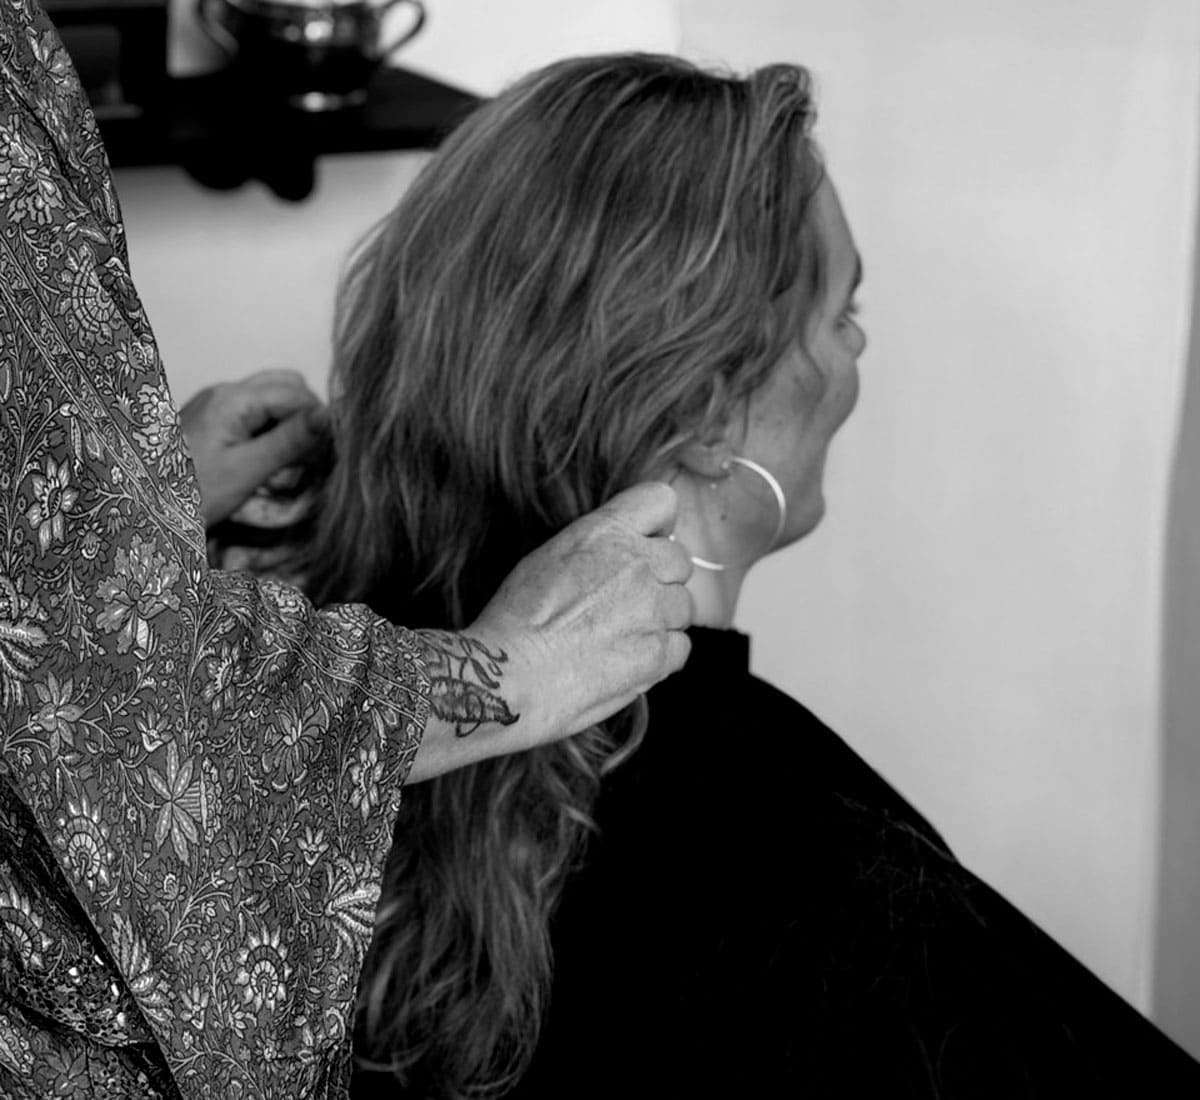
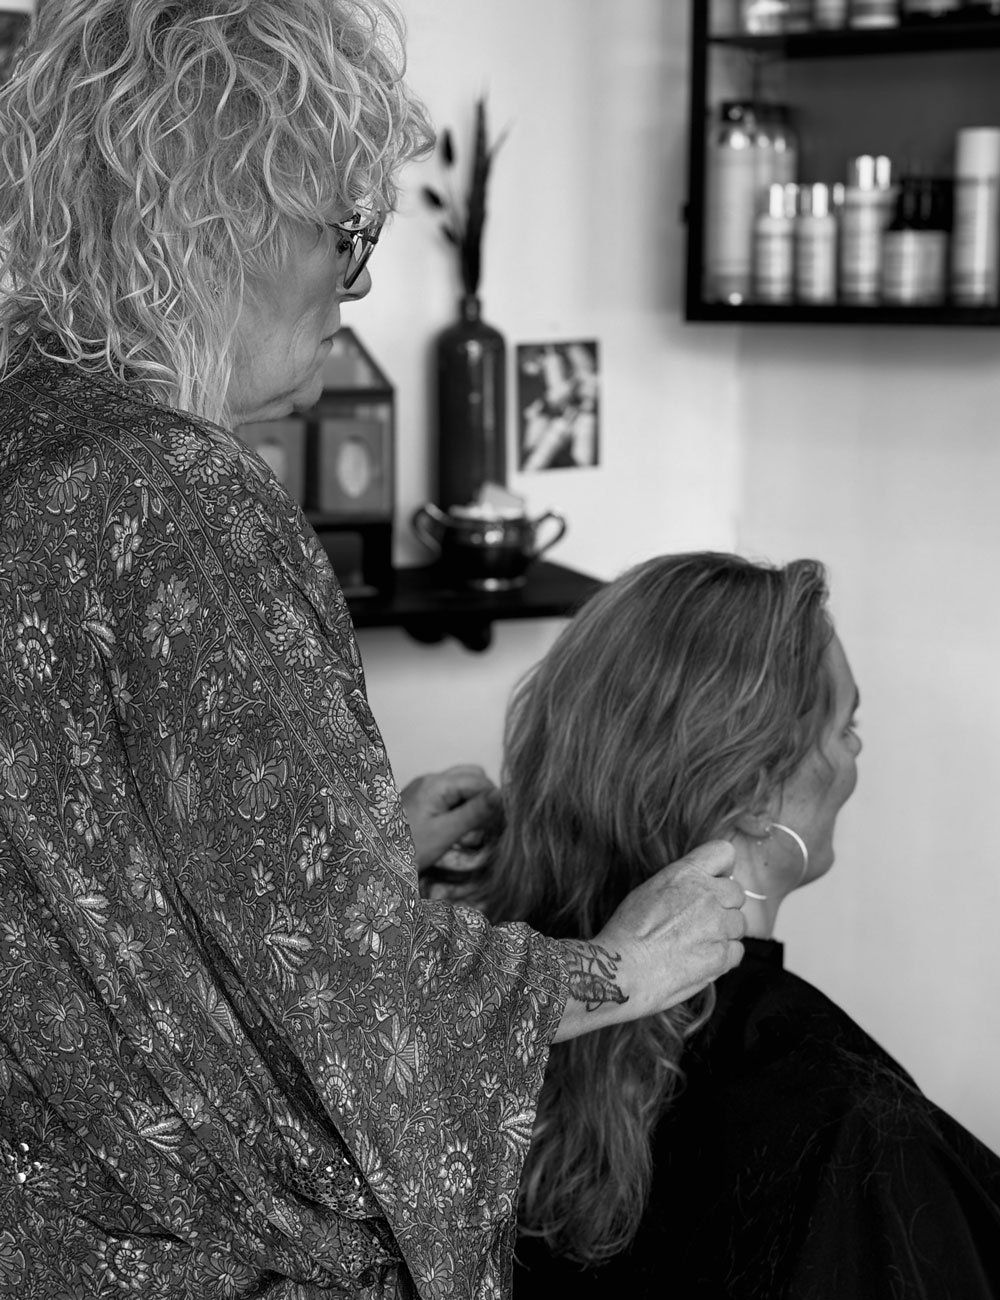
Opdatering

diff --git a/styles/guides.css b/styles/guides.css
@@ -419,7 +419,7 @@
 }
 
 /* Knapper og links man skal klikke på. */
-.guide-cta-copy .button,.guide-styling-copy h4 {
+.guide-cta-copy .button,.guide-editorial-copy .button,.guide-styling-copy h4 {
   margin-top:28px
 }
 
@@ -691,12 +691,15 @@
     grid-template-columns:minmax(0,1fr) minmax(0,1fr)
   }
   .guide-hero {
-    grid-template-columns:minmax(0,0.72fr) minmax(0,1.28fr);
-    padding-top:58px;
-    padding-bottom:24px
+    grid-template-columns:1fr 1.15fr;
+    padding-top:80px;
+    padding-bottom:80px
   }
   .guide-cta,.guide-editorial {
     grid-template-columns:minmax(0,1.28fr) minmax(0,0.72fr)
+  }
+  .guide-editorial {
+    grid-template-columns:minmax(0,1fr) minmax(0,1fr)
   }
   .guide-cta {
     align-items:stretch
@@ -739,7 +742,7 @@
   }
   .guide-hero {
     grid-template-columns:minmax(0,1.2fr) minmax(0,0.8fr);
-    padding:54px var(--page-gutter) 82px
+    padding:54px var(--page-gutter) 0
   }
   .guide-cta {
     grid-template-columns:minmax(0,1.15fr) minmax(0,0.85fr);
@@ -849,7 +852,7 @@
     grid-template-columns:minmax(0,1.15fr) minmax(0,0.85fr);
     gap:56px;
     padding-top:58px;
-    padding-bottom:24px
+    padding-bottom:0
   }
   .guide-hero-media {
     aspect-ratio:4/5
@@ -857,10 +860,17 @@
 }
 
 /* Regler for andre skærmstørrelser. */
+@media (min-width:831px) and (max-width:859px) {
+  .guide-hero {
+    grid-template-columns:minmax(0,1fr) minmax(0,1fr)
+  }
+}
+
+/* Regler for andre skærmstørrelser. */
 @media (min-width:860px) and (max-width:1199px) {
   .guide-hero {
     grid-template-columns:minmax(0,0.9fr) minmax(0,1.1fr);
-    align-items:stretch
+    align-items:start
   }
   .guide-hero-media {
     aspect-ratio:1.8/1
@@ -1078,6 +1088,104 @@
   .guide-styling-placeholder picture img {
     height:auto;
     object-fit:contain
+  }
+}
+
+.guide-hero-media {
+  min-height:0;
+  max-height:none;
+  aspect-ratio:16 / 9;
+  overflow:hidden;
+  background:transparent
+}
+
+.guide-hero-media img {
+  display:block;
+  width:100%;
+  height:100%;
+  object-fit:cover;
+  object-position:center
+}
+
+@media (min-width:768px) and (max-width:830px) {
+  .guide-hero-media,.guide-editorial-image {
+    aspect-ratio:auto;
+    background:transparent
+  }
+  .guide-hero-media picture,.guide-hero-media img,.guide-editorial-image picture,.guide-editorial-image img {
+    display:block;
+    width:100%;
+    height:auto;
+    object-fit:initial
+  }
+}
+
+@media (max-width:830px) and (min-width:768px) {
+  .guide-hero-media,.guide-editorial-image {
+    height:clamp(360px, 34vw, 440px);
+    overflow:hidden
+  }
+  .guide-hero-media img,.guide-editorial-image img {
+    display:block;
+    width:100%;
+    height:100%;
+    object-fit:cover;
+    object-position:center
+  }
+}
+
+@media (min-width:831px) {
+  .guide-hero {
+    align-items:stretch
+  }
+  .guide-hero-media {
+    min-height:0;
+    height:auto;
+    overflow:hidden
+  }
+  .guide-hero-media img {
+    display:block;
+    width:100%;
+    height:100%;
+    object-fit:cover;
+    object-position:center
+  }
+  .guide-editorial,.guide-cta {
+    align-items:stretch
+  }
+  .guide-editorial {
+    grid-template-columns:minmax(0,1fr) minmax(0,1fr)
+  }
+  .guide-editorial-copy {
+    max-width:620px
+  }
+  .guide-editorial-image,.guide-cta-image {
+    position:relative;
+    align-self:stretch;
+    min-height:0;
+    max-height:none;
+    height:100%;
+    aspect-ratio:auto;
+    overflow:hidden;
+    background:transparent
+  }
+  .guide-editorial-image {
+    height:clamp(340px, 24vw, 460px);
+    overflow:hidden
+  }
+  .guide-editorial-image picture,.guide-editorial-image img,.guide-cta-image picture,.guide-cta-image img {
+    display:block;
+    width:100%;
+    height:100%
+  }
+  .guide-editorial-image picture {
+    position:absolute;
+    inset:0
+  }
+  .guide-editorial-image img,.guide-cta-image img {
+    height:100%;
+    object-fit:cover;
+    object-position:center
   }
 }
 

diff --git a/guides.html b/guides.html
@@ -248,14 +248,14 @@
     <!-- Sektion .guide-hero: samlet indholdsblok paa siden. -->
     <section class="guide-hero" aria-labelledby="guide-hero-title">
       <div class="guide-hero-content">
-        <p class="eyebrow">Krølleunivers</p>
-        <h1 id="guide-hero-title">Giv dine krøller det, de mangler - ikke mere end det.</h1>
-        <p class="guide-hero-lead">Fine krøller og bølger ændrer sig hele tiden.<span class="guide-hero-desktop-break"></span> Nogle dage har de brug for lethed. Andre dage for mere næring. Mixly Low &amp; Rich gør det enkelt at justere din pleje efter, hvordan dit hår føles lige nu.</p>
-        <a class="button guide-button" href="produkter.html">Udforsk Mixly</a>
+        <p class="eyebrow">Sådan fungerer Mixly</p>
+        <h1 id="guide-hero-title">To produkter, der er skabt til at blive blande</h1>
+        <p class="guide-hero-lead">Mixly består af LOW og RICH. Hver for sig kan de noget forskelligt, men det er i kombinationen, de giver mening.</p> <p>Ved at blande dem sammen kan du tilpasse din rutine til dit hårs behov og skabe den balance mellem fugt, pleje og lethed, som fungerer for dig. Det gør det nemmere at forstå dit hår og lettere at justere, når det ændrer sig.</p>
+        <a class="button guide-button" href="produkter.html">Udforsk produkter</a>
       </div>
       <div class="guide-hero-media" aria-hidden="true">
         <picture>
-          <source media="(min-width: 768px) and (max-width: 859px)" srcset="img/guide-hero-tablet.jpg">
+          <source media="(min-width: 768px) and (max-width: 830px)" srcset="img/guide-hero-tablet.jpg">
           <img src="img/guide-hero.jpg" alt="">
         </picture>
         <span class="image-placeholder-label">IMG</span>
@@ -359,17 +359,16 @@
     <section class="guide-editorial guide-section" aria-labelledby="guide-feel-title">
       <div class="guide-editorial-image guide-placeholder" aria-hidden="true">
         <picture>
-          <source media="(min-width: 768px) and (max-width: 909px)" srcset="img/guide-sektion-hvordan-tablet.jpg">
+          <source media="(min-width: 768px) and (max-width: 830px)" srcset="img/guide-sektion-hvordan-tablet.jpg">
           <img src="img/guide-sektion-hvordan.jpg" alt="" loading="lazy" decoding="async">
         </picture>
         <span class="image-placeholder-label">IMG</span>
       </div>
       <div class="guide-editorial-copy">
-        <p class="eyebrow">LOW &amp; RICH BALANCE</p>
-        <h2 id="guide-feel-title">Hvordan føles dit hår i dag?</h2>
-        <p>Mixly er udviklet med fokus på fint hår med krøller eller bølger. Visionen har hele tiden været at skabe hårprodukter, der kan tilpasses dig og dit hår - ikke omvendt.</p>
-        <p>Det handler om at lære dit hår at kende og justere plejen efter, hvordan det føles lige nu.</p>
-        <p>Start med følelsen. Så bliver det meget lettere at forstå, hvad dit hår har brug for.</p>
+        <p class="eyebrow">KRØLLEVIDEN</p>
+        <h2 id="guide-feel-title">Lær dit hår bedre at kende</h2>
+        <p>Krøller og bølger har ikke de samme behov hver dag. Når du lærer at genkende, hvordan dit hår føles og reagerer, bliver det lettere at forstå, hvad det har brug for.</p><p>I vores guide deler vi konkrete råd til, hvordan du fremhæver dine naturlige krøller og skaber en rutine, der passer til dit hår.</p>
+        <a class="button button-secondary" href="http://127.0.0.1:5500/blog/sadan-far-du-dine-naturlige-kroller-frem.html">Læs guiden</a>
       </div>
     </section>
 
@@ -464,15 +463,6 @@
       </div>
     </section>
 
-    <!-- Sektion .guide-quote-section: samlet indholdsblok paa siden. -->
-    <section class="guide-quote-section" aria-label="Citat fra Belinda Hildebrandt">
-      <blockquote class="guide-quote">
-        <p>"Jeg hjælper dig med at forstå dit hår, så du kan skabe en rutine, der virker for dig."</p>
-        <!-- Footer: nederste omraade med links, kontakt og ekstra information. -->
-        <footer>Belinda Hildebrandt</footer>
-      </blockquote>
-    </section>
-
     <!-- Sektion .guide-cta: samlet indholdsblok paa siden. -->
     <section class="guide-cta guide-section" aria-labelledby="guide-cta-title">
       <div class="guide-cta-image guide-placeholder" aria-hidden="true">
@@ -491,6 +481,15 @@
           <a class="button button-secondary" href="kontakt.html">Kontakt mig</a>
         </div>
       </div>
+    </section>
+
+    <!-- Sektion .guide-quote-section: samlet indholdsblok paa siden. -->
+    <section class="guide-quote-section" aria-label="Citat fra Belinda Hildebrandt">
+      <blockquote class="guide-quote">
+        <p>"Jeg hjælper dig med at forstå dit hår, så du kan skabe en rutine, der virker for dig."</p>
+        <!-- Footer: nederste omraade med links, kontakt og ekstra information. -->
+        <footer>Belinda Hildebrandt</footer>
+      </blockquote>
     </section>
 
   </main>
@@ -599,4 +598,3 @@
   <script src="scripts/script.js"></script>
 </body>
 </html>
-